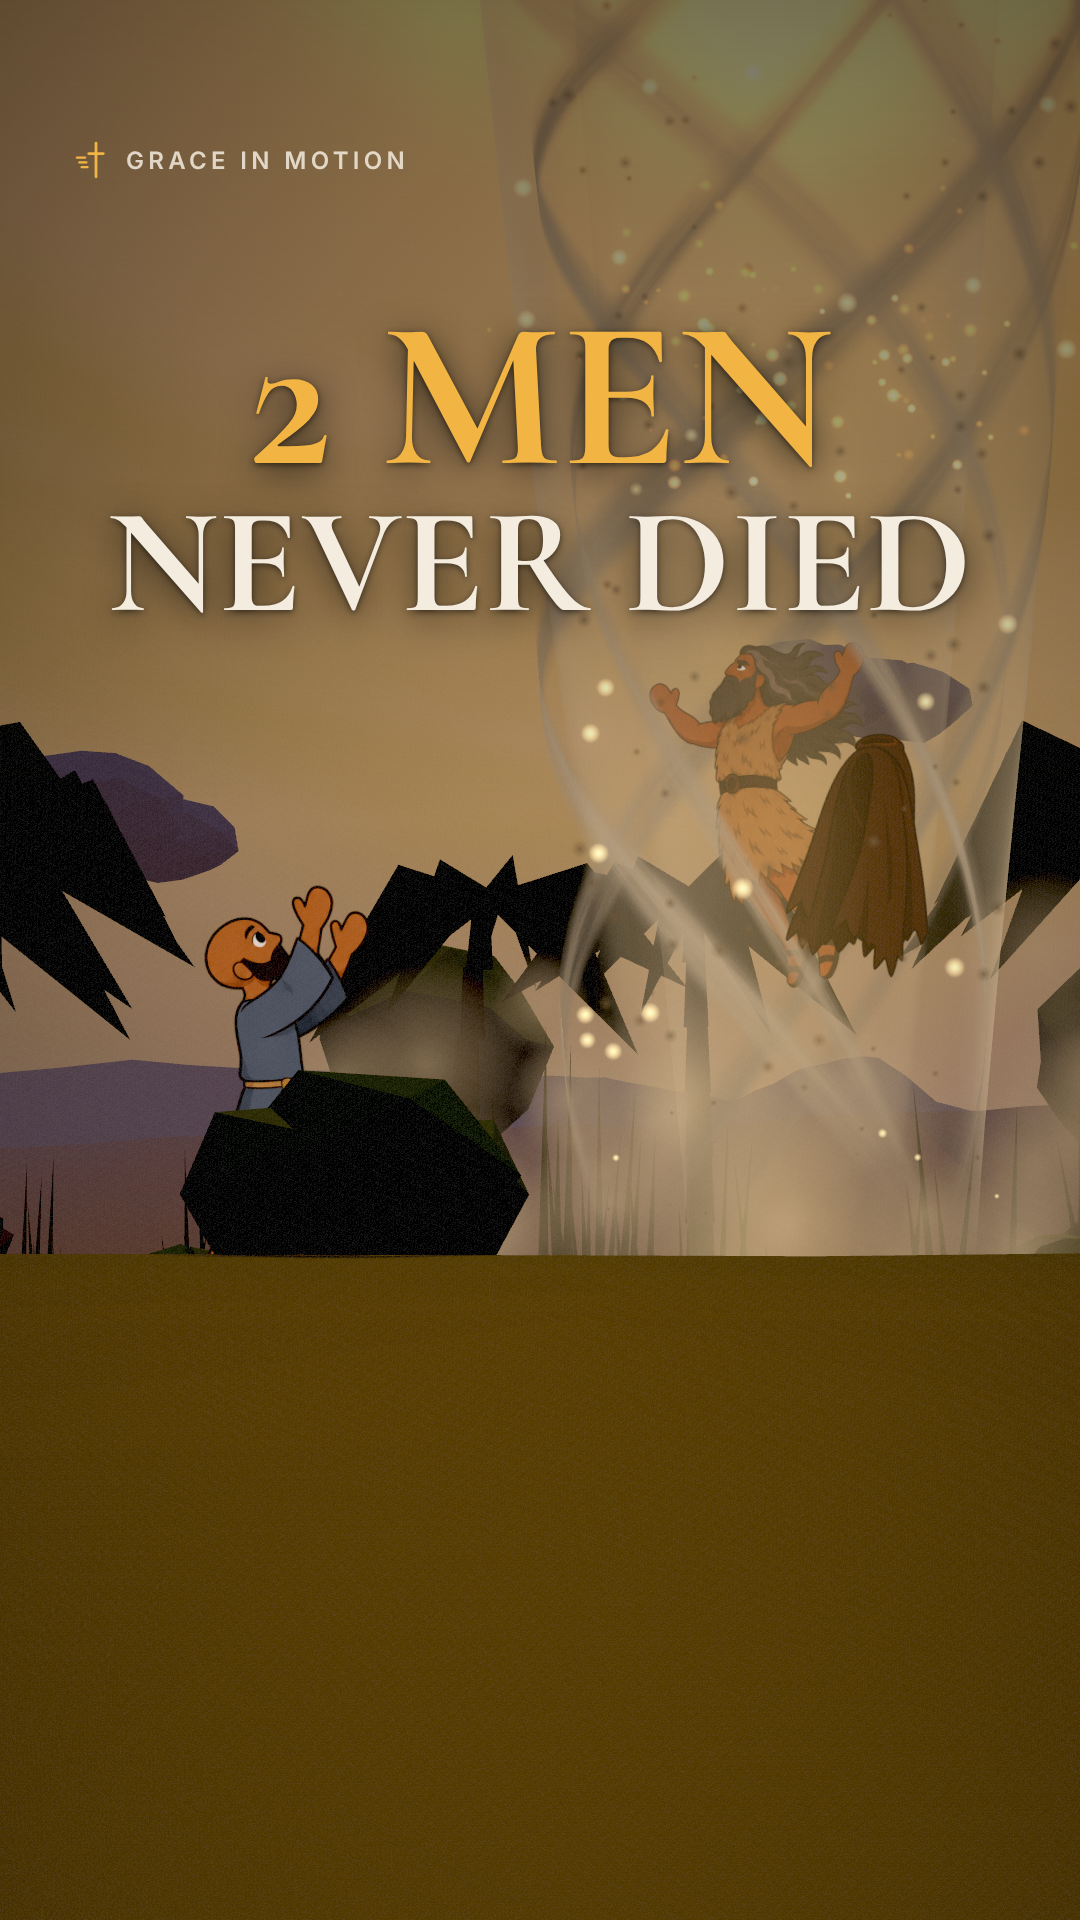
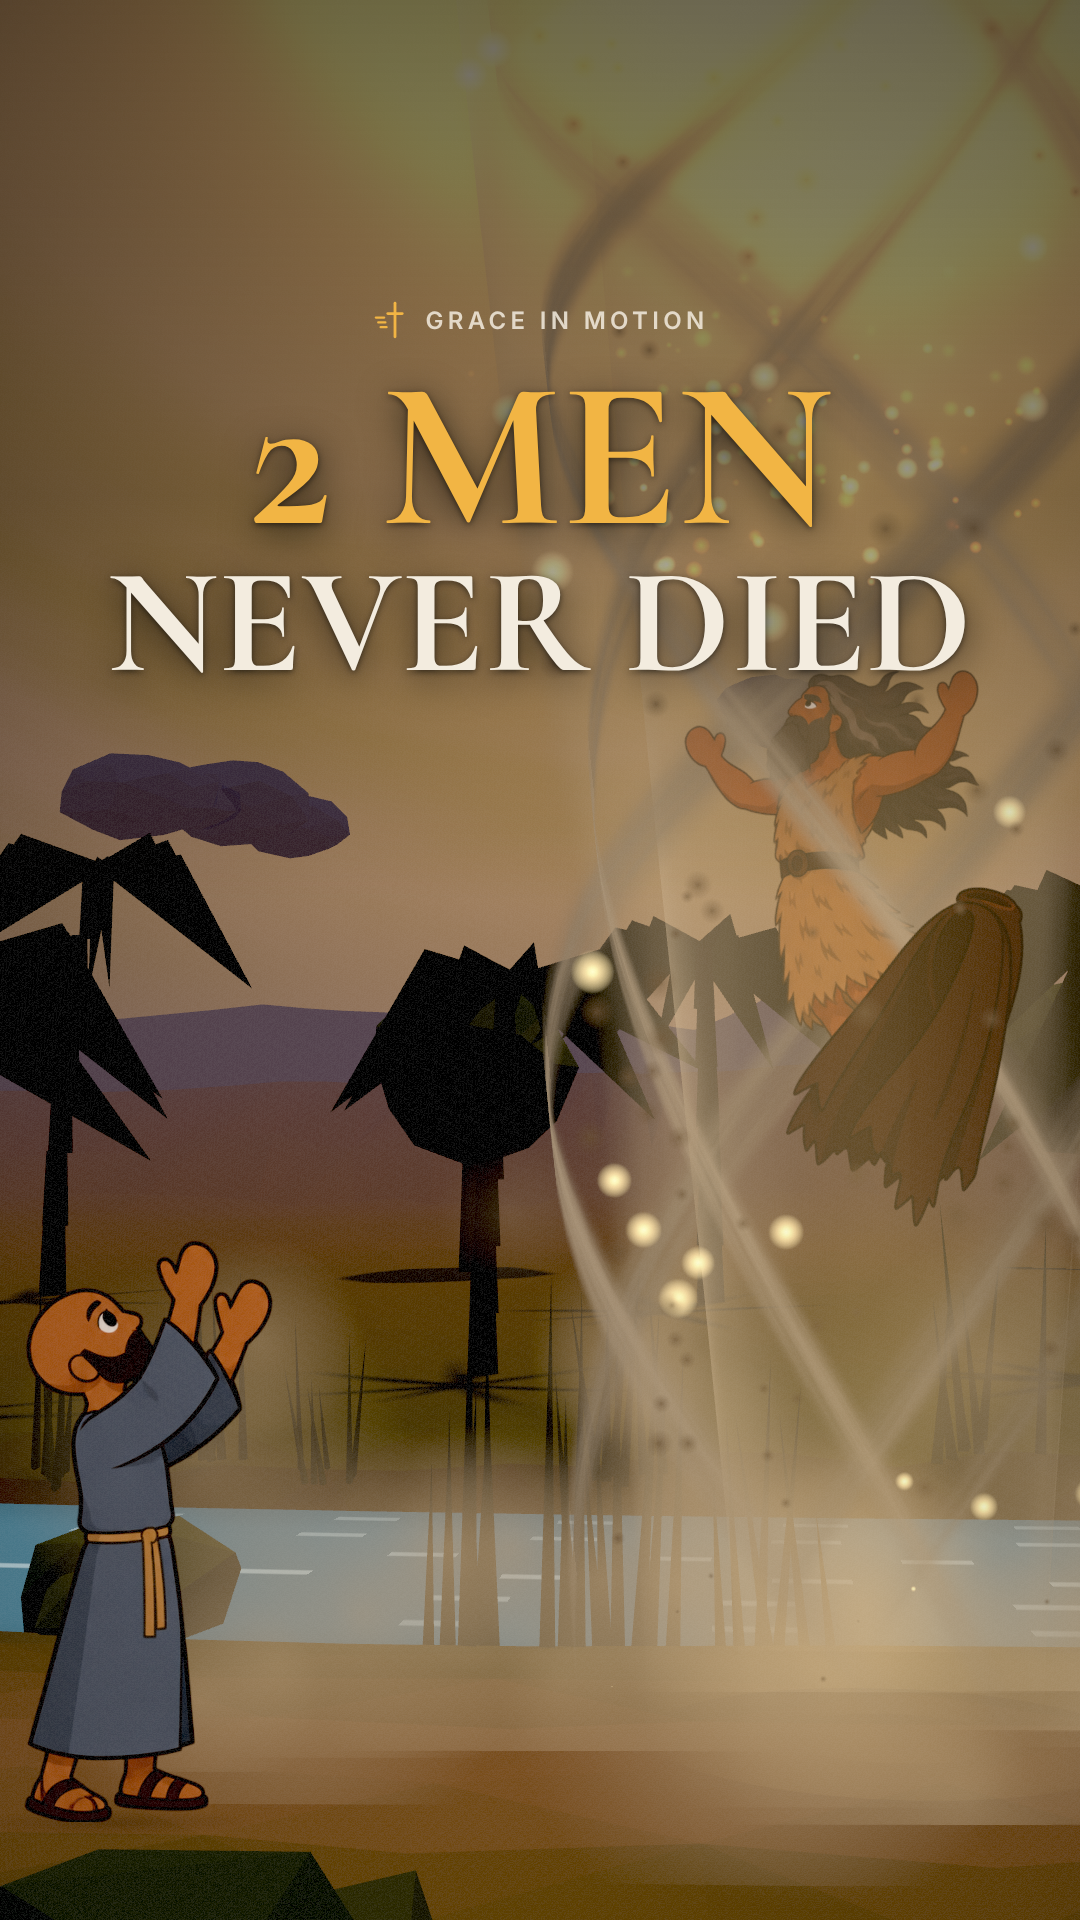
Add the final cover (Elijah rising in the whirlwind, title inside the 4:5 crop) and the 10 check stills
Claude-Session: https://claude.ai/code/session_01LPYJLodA7cuTff9h5YS41s

diff --git a/grace-reels/episodes/never-died/src/overlay/CoverTitle.tsx b/grace-reels/episodes/never-died/src/overlay/CoverTitle.tsx
@@ -7,11 +7,11 @@ export const CoverTitle: React.FC = () => {
 	return (
 		<div style={{position: 'absolute', left: 0, top: 0, width: 1080, height: 1920}}>
 			<div style={{position: 'absolute', left: 0, top: 0, width: 1080, height: 900, background: 'linear-gradient(to bottom, rgba(20,12,6,0.6) 0%, rgba(20,12,6,0.4) 55%, rgba(20,12,6,0) 100%)'}} />
-			<div style={{position: 'absolute', left: 0, width: 1080, top: 320, display: 'flex', justifyContent: 'center', alignItems: 'center', gap: 14}}>
+			<div style={{position: 'absolute', left: 0, width: 1080, top: 300, display: 'flex', justifyContent: 'center', alignItems: 'center', gap: 14}}>
 				<Logo size={40} />
 				<span style={{fontFamily: SANS, fontWeight: 600, fontSize: 24, letterSpacing: '0.18em', color: C.cream, opacity: 0.85}}>GRACE IN MOTION</span>
 			</div>
-			<div style={{position: 'absolute', left: 0, width: 1080, top: 390, textAlign: 'center', fontFamily: SERIF, fontWeight: 700, lineHeight: 0.92, letterSpacing: '0.03em', textShadow: '0 8px 36px rgba(0,0,0,0.65), 0 2px 6px rgba(0,0,0,0.55)'}}>
+			<div style={{position: 'absolute', left: 0, width: 1080, top: 360, textAlign: 'center', fontFamily: SERIF, fontWeight: 700, lineHeight: 0.92, letterSpacing: '0.03em', textShadow: '0 8px 36px rgba(0,0,0,0.65), 0 2px 6px rgba(0,0,0,0.55)'}}>
 				<div style={{fontSize: 210, color: C.gold}}>2 MEN</div>
 				<div style={{fontSize: 150, color: C.cream}}>NEVER DIED</div>
 			</div>

diff --git a/grace-reels/episodes/never-died/src/shots/S6Whirlwind.tsx b/grace-reels/episodes/never-died/src/shots/S6Whirlwind.tsx
@@ -180,7 +180,7 @@ export const S6: ShotDef = {
 // The cover: the same moment framed closer, looking up at Elijah in the whirlwind with Elisha reaching
 // from below (kept inside Instagram's 4:5 grid crop). Never active in the reel timeline.
 const T_COVER = 39.1;
-const coverCam = (): CamState => orbit([EX() - 0.85, 2.15, EL_Z + 0.2], 7.6, -12, 10, 46, {drift: 0});
+const coverCam = (): CamState => orbit([0.25, 3.0, EL_Z + 0.25], 8.6, -6, 4, 46, {drift: 0});
 export const COVER: ShotDef = {
 	id: 'COVER',
 	start: -10,
